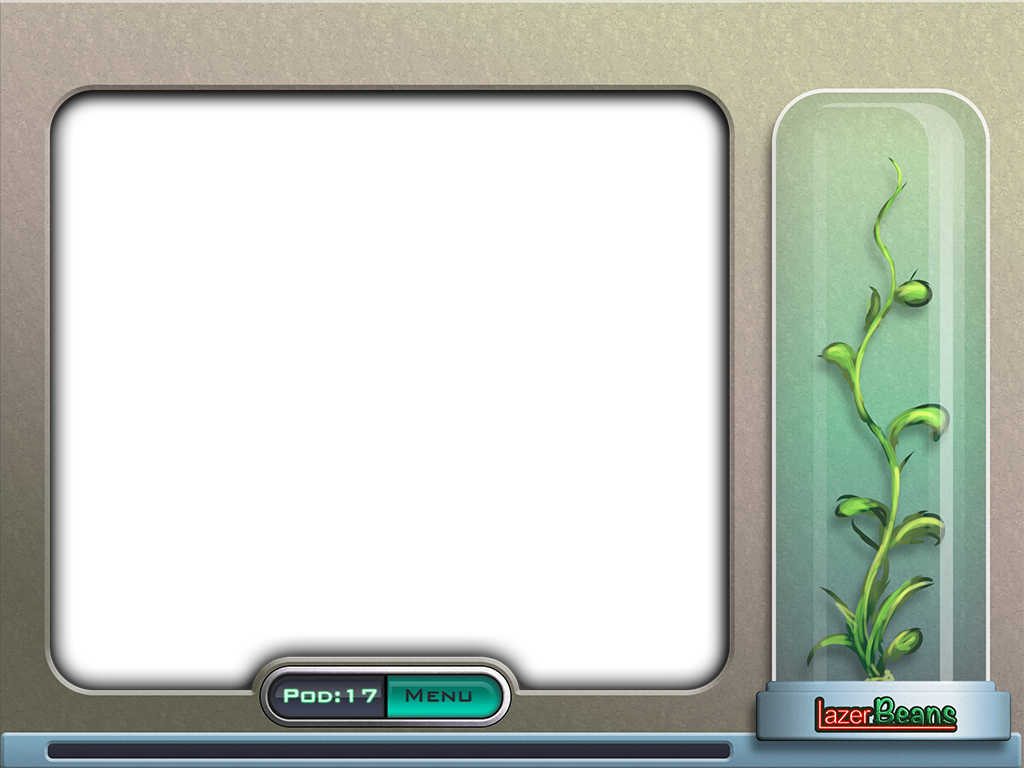
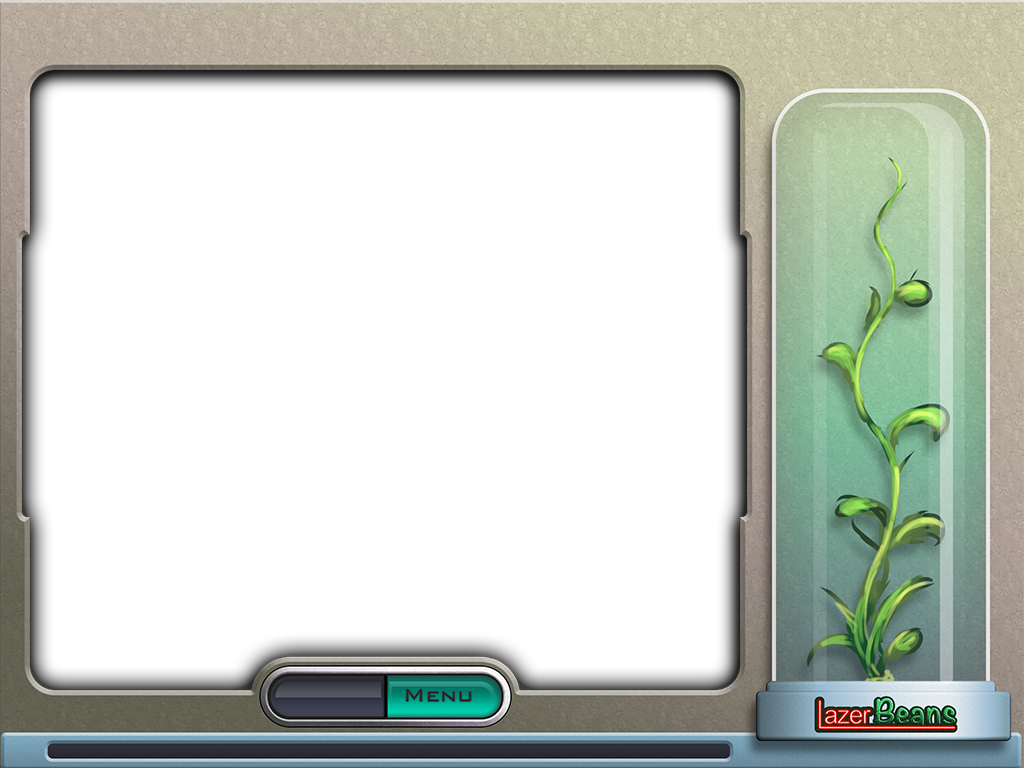
updated graphics, moved buttons to fit in to see how it looks

Changed region(s): [[0.0, 0.0625, 0.75, 0.9062], [0.2812, 0.875, 0.375, 0.9375]]

diff --git a/js/spritesheet.js b/js/spritesheet.js
@@ -1,62 +1,62 @@
-// Created with TexturePacker (http://www.texturepacker.com)  Update key: $TexturePacker:SmartUpdate:9166e9a402472d3b5a1622a72df84b37$
+// Created with TexturePacker (http://www.texturepacker.com)  Update key: $TexturePacker:SmartUpdate:61fda05b681bf975160c9b9a10c8111a$
 (function() {
   var TP = (typeof(window.TexturePacker) == 'undefined' ? window.TexturePacker = {} : window.TexturePacker);
   if(typeof TP.images == 'undefined') TexturePacker.images = [];
   if(typeof TP.frames == 'undefined') TexturePacker.frames = {};
   TP.images.push("spritesheet.png");
   
-  TP.frames["beam_blue_mid"] = {x:680, y:814, w:144, h:159};
-  TP.frames["beam_green_mid"] = {x:535, y:814, w:144, h:159};
-  TP.frames["beam_red_mid"] = {x:390, y:814, w:144, h:159};
-  TP.frames["but_info_down"] = {x:1659, y:334, w:106, h:98};
-  TP.frames["but_info_hover"] = {x:1445, y:395, w:106, h:98};
-  TP.frames["but_info_up"] = {x:1552, y:334, w:106, h:98};
-  TP.frames["but_nextlevel_down"] = {x:769, y:131, w:171, h:64};
-  TP.frames["but_nextlevel_hover"] = {x:769, y:66, w:171, h:64};
-  TP.frames["but_nextlevel_up"] = {x:769, y:1, w:171, h:64};
-  TP.frames["but_reset_down"] = {x:814, y:974, w:126, h:40};
-  TP.frames["but_reset_hover"] = {x:687, y:974, w:126, h:40};
-  TP.frames["but_reset_up"] = {x:560, y:974, w:126, h:40};
-  TP.frames["but_sound_all"] = {x:1357, y:861, w:106, h:98};
-  TP.frames["but_sound_fx"] = {x:1316, y:762, w:106, h:98};
-  TP.frames["but_sound_hover"] = {x:1445, y:296, w:106, h:98};
-  TP.frames["but_sound_mute"] = {x:659, y:100, w:106, h:98};
-  TP.frames["but_sound_up"] = {x:659, y:1, w:106, h:98};
-  TP.frames["but_start_down"] = {x:1623, y:223, w:128, h:110};
-  TP.frames["but_start_hover"] = {x:1623, y:112, w:128, h:110};
-  TP.frames["but_start_up"] = {x:1623, y:1, w:128, h:110};
+  TP.frames["beam_blue_mid"] = {x:680, y:808, w:144, h:159};
+  TP.frames["beam_green_mid"] = {x:535, y:808, w:144, h:159};
+  TP.frames["beam_red_mid"] = {x:390, y:808, w:144, h:159};
+  TP.frames["but_info_down"] = {x:1315, y:597, w:106, h:98};
+  TP.frames["but_info_hover"] = {x:1215, y:885, w:106, h:98};
+  TP.frames["but_info_up"] = {x:1215, y:786, w:106, h:98};
+  TP.frames["but_nextlevel_down"] = {x:1138, y:397, w:125, h:50};
+  TP.frames["but_nextlevel_hover"] = {x:1012, y:397, w:125, h:50};
+  TP.frames["but_nextlevel_up"] = {x:886, y:397, w:125, h:50};
+  TP.frames["but_reset_down"] = {x:1140, y:322, w:126, h:40};
+  TP.frames["but_reset_hover"] = {x:1013, y:322, w:126, h:40};
+  TP.frames["but_reset_up"] = {x:886, y:322, w:126, h:40};
+  TP.frames["but_sound_all"] = {x:1573, y:397, w:106, h:98};
+  TP.frames["but_sound_fx"] = {x:1634, y:298, w:106, h:98};
+  TP.frames["but_sound_hover"] = {x:1634, y:199, w:106, h:98};
+  TP.frames["but_sound_mute"] = {x:1634, y:100, w:106, h:98};
+  TP.frames["but_sound_up"] = {x:1634, y:1, w:106, h:98};
+  TP.frames["but_start_down"] = {x:894, y:963, w:125, h:50};
+  TP.frames["but_start_hover"] = {x:768, y:968, w:125, h:50};
+  TP.frames["but_start_up"] = {x:642, y:968, w:125, h:50};
   TP.frames["credit_text"] = {x:1, y:1, w:405, h:485};
-  TP.frames["door_bottom"] = {x:1, y:487, w:767, h:326};
-  TP.frames["door_top"] = {x:941, y:1, w:681, h:294};
-  TP.frames["filter_blue"] = {x:1256, y:863, w:100, h:100};
-  TP.frames["filter_clear"] = {x:1215, y:762, w:100, h:100};
-  TP.frames["filter_green"] = {x:1264, y:451, w:100, h:100};
-  TP.frames["filter_mirror"] = {x:659, y:199, w:88, h:88};
-  TP.frames["filter_red"] = {x:998, y:690, w:100, h:100};
-  TP.frames["filter_solid"] = {x:897, y:690, w:100, h:100};
-  TP.frames["laser_blue"] = {x:1099, y:607, w:257, h:154};
-  TP.frames["laser_green"] = {x:1187, y:296, w:257, h:154};
-  TP.frames["laser_red"] = {x:1006, y:452, w:257, h:154};
-  TP.frames["level_complete"] = {x:390, y:974, w:169, h:43};
-  TP.frames["level_number_0"] = {x:1193, y:947, w:62, h:53};
-  TP.frames["level_number_1"] = {x:1006, y:607, w:27, h:53};
-  TP.frames["level_number_2"] = {x:1130, y:947, w:62, h:53};
-  TP.frames["level_number_3"] = {x:1067, y:947, w:62, h:53};
-  TP.frames["level_number_4"] = {x:1004, y:958, w:62, h:53};
-  TP.frames["level_number_5"] = {x:941, y:958, w:62, h:53};
-  TP.frames["level_number_6"] = {x:596, y:238, w:62, h:53};
-  TP.frames["level_number_7"] = {x:533, y:238, w:62, h:53};
-  TP.frames["level_number_8"] = {x:470, y:238, w:62, h:53};
-  TP.frames["level_number_9"] = {x:407, y:238, w:62, h:53};
-  TP.frames["level_number_display"] = {x:769, y:690, w:127, h:111};
-  TP.frames["pivot_back"] = {x:769, y:453, w:236, h:236};
-  TP.frames["pivot_front"] = {x:407, y:1, w:236, h:236};
-  TP.frames["sensor_blue"] = {x:1020, y:791, w:194, h:155};
-  TP.frames["sensor_blue_off"] = {x:825, y:802, w:194, h:155};
-  TP.frames["sensor_green"] = {x:992, y:296, w:194, h:155};
-  TP.frames["sensor_green_off"] = {x:797, y:297, w:194, h:155};
-  TP.frames["sensor_red"] = {x:602, y:297, w:194, h:155};
-  TP.frames["sensor_red_off"] = {x:407, y:297, w:194, h:155};
-  TP.frames["tutorial_1"] = {x:1, y:814, w:388, h:205};
-  TP.frames["you_win"] = {x:769, y:196, w:169, h:100};
+  TP.frames["door_bottom"] = {x:894, y:1, w:739, h:320};
+  TP.frames["door_top"] = {x:1, y:487, w:739, h:320};
+  TP.frames["filter_blue"] = {x:1215, y:496, w:100, h:100};
+  TP.frames["filter_clear"] = {x:1214, y:685, w:100, h:100};
+  TP.frames["filter_green"] = {x:1113, y:685, w:100, h:100};
+  TP.frames["filter_mirror"] = {x:407, y:397, w:88, h:88};
+  TP.frames["filter_red"] = {x:1012, y:685, w:100, h:100};
+  TP.frames["filter_solid"] = {x:911, y:706, w:100, h:100};
+  TP.frames["laser_blue"] = {x:1315, y:322, w:257, h:154};
+  TP.frames["laser_green"] = {x:407, y:156, w:257, h:154};
+  TP.frames["laser_red"] = {x:407, y:1, w:257, h:154};
+  TP.frames["level_complete"] = {x:516, y:968, w:125, h:50};
+  TP.frames["level_number_0"] = {x:665, y:172, w:18, h:18};
+  TP.frames["level_number_1"] = {x:665, y:153, w:18, h:18};
+  TP.frames["level_number_2"] = {x:665, y:134, w:18, h:18};
+  TP.frames["level_number_3"] = {x:665, y:115, w:18, h:18};
+  TP.frames["level_number_4"] = {x:665, y:96, w:18, h:18};
+  TP.frames["level_number_5"] = {x:665, y:77, w:18, h:18};
+  TP.frames["level_number_6"] = {x:665, y:58, w:18, h:18};
+  TP.frames["level_number_7"] = {x:665, y:39, w:18, h:18};
+  TP.frames["level_number_8"] = {x:665, y:20, w:18, h:18};
+  TP.frames["level_number_9"] = {x:665, y:1, w:18, h:18};
+  TP.frames["level_number_display"] = {x:390, y:968, w:125, h:50};
+  TP.frames["pivot_back"] = {x:978, y:448, w:236, h:236};
+  TP.frames["pivot_front"] = {x:741, y:469, w:236, h:236};
+  TP.frames["sensor_blue"] = {x:1020, y:786, w:194, h:155};
+  TP.frames["sensor_blue_off"] = {x:825, y:807, w:194, h:155};
+  TP.frames["sensor_green"] = {x:691, y:313, w:194, h:155};
+  TP.frames["sensor_green_off"] = {x:691, y:157, w:194, h:155};
+  TP.frames["sensor_red"] = {x:691, y:1, w:194, h:155};
+  TP.frames["sensor_red_off"] = {x:496, y:322, w:194, h:155};
+  TP.frames["tutorial_1"] = {x:1, y:808, w:388, h:205};
+  TP.frames["you_win"] = {x:741, y:706, w:169, h:100};
 })();

diff --git a/js/menulayer.js b/js/menulayer.js
@@ -28,15 +28,15 @@ MenuLayer = pc.Layer.extend('MenuLayer',
             y:y };
 
         }
-        this.startButton = button("but_start", 800, 175);
+        this.startButton = button("but_start", 382, 671);
         this.startButton.handleClick = function() {
           game.startGame();
         };
-        this.nextLevelButton = button("but_nextlevel", 780, 250);
+        this.nextLevelButton = button("but_nextlevel", 382, 671);
         this.nextLevelButton.handleClick = function() {
           game.nextLevel();
         };
-        this.infoButton = button("but_info", 853, 515);
+        this.infoButton = button("but_info", 0, 0);
         this.infoButton.handleClick = function() {
           this.showInfo = !this.showInfo;
         }.bind(this);
@@ -50,12 +50,12 @@ MenuLayer = pc.Layer.extend('MenuLayer',
         this.youWinImage.y = 185;
 
         this.levelCompleteImage = getImage("level_complete");
-        this.levelCompleteImage.x = 775;
-        this.levelCompleteImage.y = 175;
+        this.levelCompleteImage.x = 265;
+        this.levelCompleteImage.y = 671;
 
         this.levelBg = getImage('level_number_display');
-        this.levelBg.x = 800;
-        this.levelBg.y = 175;
+        this.levelBg.x = 265;
+        this.levelBg.y = 671;
 
         this.helpImage = getImage('tutorial_1');
         this.helpImage.x = 370;
@@ -67,8 +67,8 @@ MenuLayer = pc.Layer.extend('MenuLayer',
           this.soundState.muted = getImage('but_sound_mute'),
           this.soundState.up = getImage('but_sound_up'),
           this.soundState.hover = getImage('but_sound_hover')].forEach(function(s) {
-              s.x = 853;
-              s.y = 407;
+              s.x = 100;
+              s.y = 0;
         });
         this.soundState.x = this.soundState.up.x;
         this.soundState.y = this.soundState.up.y;

diff --git a/js/doorlayer.js b/js/doorlayer.js
@@ -1,6 +1,6 @@
-var doorOverlap = 75;
-var doorMidPointY = 386;
-var doorLeftX = 48;
+var doorOverlap = 10;
+var doorMidPointY = 388;
+var doorLeftX = 10;
 // Credits center point
 var creditsX = 400;
 var creditsY = 380;
